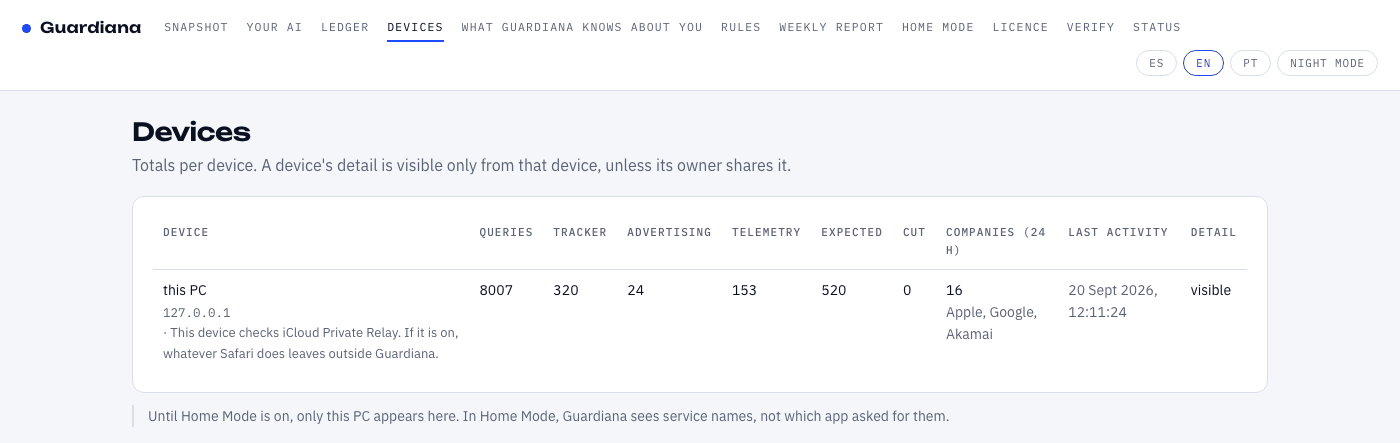
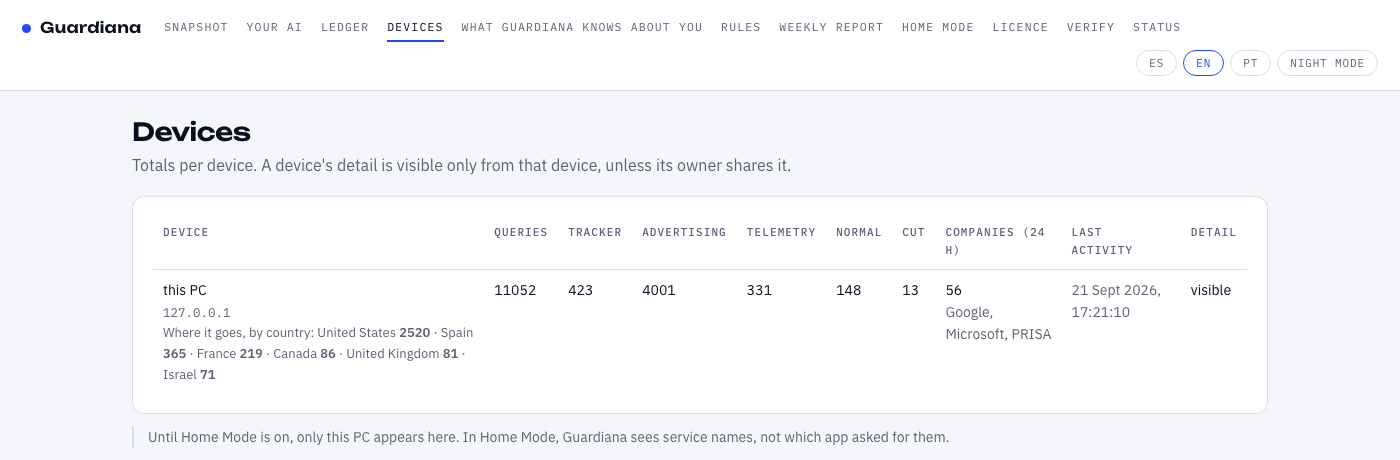
Panel screenshots retaken: the column says «normal», and the figures are real

diff --git a/es/index.html b/es/index.html
@@ -370,7 +370,7 @@ footer .links a:hover{color:var(--tinta)}
     <p>GUARDIANA puede dejar en tu escritorio un archivo que parece una copia de tus claves. Dentro no hay ninguna clave: hay una dirección de internet única, que no existe en ningún otro sitio del mundo. Si algo lee ese archivo —una IA, una extensión del navegador, una página web— y va a buscar esa dirección, la pregunta pasa por GUARDIANA. Queda anotada con la hora y, en Windows, con el nombre del programa que preguntó. GUARDIANA no ha abierto el archivo ni sabe qué hay dentro: sigue mirando solo nombres, como en todo lo demás.</p>
     <p class="ojo">Lo que esta trampa no atrapa, dicho antes de que lo preguntes: un programa que lea el archivo y se lo mande a su servidor sin preguntar por esa dirección no aparece. Es una trampa para quien sigue el enlace, no un detector de robos.</p>
   </div>
-  <figure class="pantalla"><img src="/panel-dispositivos.png" width="1400" height="485" alt="«Dispositivos», el mismo registro: cada consulta de este Mac, clasificada por lo que es. Cortadas: ninguna, porque cortar lo decides tú." loading="lazy"><figcaption>«Dispositivos», el mismo registro: cada consulta de este Mac, clasificada por lo que es. Cortadas: ninguna, porque cortar lo decides tú.</figcaption></figure>
+  <figure class="pantalla"><img src="/panel-dispositivos.png" width="1400" height="460" alt="«Dispositivos» en el PC de pruebas, el 21 de septiembre de 2026: 11.052 consultas reales de un día y medio, clasificadas por lo que son, y 13 cortadas por decisión de su dueño. Los países son a dónde fueron. Ninguna cifra está puesta a mano." loading="lazy"><figcaption>«Dispositivos» en el PC de pruebas, el 21 de septiembre de 2026: 11.052 consultas reales de un día y medio, clasificadas por lo que son, y 13 cortadas por decisión de su dueño. Los países son a dónde fueron. Ninguna cifra está puesta a mano.</figcaption></figure>
 </section>
 
 <section id="hogar">

diff --git a/pt/index.html b/pt/index.html
@@ -370,7 +370,7 @@ footer .links a:hover{color:var(--tinta)}
     <p>A GUARDIANA pode deixar na sua área de trabalho um arquivo que parece uma cópia das suas chaves. Dentro não há chave nenhuma: há um endereço de internet único, que não existe em nenhum outro lugar do mundo. Se algo ler esse arquivo — uma IA, uma extensão do navegador, uma página web — e for procurar esse endereço, a pergunta passa pela GUARDIANA. Fica anotada com a hora e, no Windows, com o nome do programa que perguntou. A GUARDIANA não abriu o arquivo nem sabe o que há dentro: continua olhando só nomes, como em tudo o mais.</p>
     <p class="ojo">O que esta armadilha não pega, dito antes de você perguntar: um programa que leia o arquivo e o mande para o seu servidor sem procurar esse endereço não aparece. É uma armadilha para quem segue o link, não um detector de roubos.</p>
   </div>
-  <figure class="pantalla"><img src="/panel-dispositivos-pt.png" width="1400" height="507" alt="«Aparelhos», o mesmo registro: cada consulta deste Mac, classificada pelo que é. Cortadas: nenhuma, porque cortar quem decide é você." loading="lazy"><figcaption>«Aparelhos», o mesmo registro: cada consulta deste Mac, classificada pelo que é. Cortadas: nenhuma, porque cortar quem decide é você.</figcaption></figure>
+  <figure class="pantalla"><img src="/panel-dispositivos-pt.png" width="1400" height="485" alt="«Aparelhos» no PC de testes, em 21 de setembro de 2026: 11.052 consultas reais de um dia e meio, classificadas pelo que são, e 13 cortadas por decisão do dono. Os países são para onde foram. Nenhum número foi digitado à mão." loading="lazy"><figcaption>«Aparelhos» no PC de testes, em 21 de setembro de 2026: 11.052 consultas reais de um dia e meio, classificadas pelo que são, e 13 cortadas por decisão do dono. Os países são para onde foram. Nenhum número foi digitado à mão.</figcaption></figure>
 </section>
 
 <section id="hogar">

diff --git a/index.html b/index.html
@@ -370,7 +370,7 @@ footer .links a:hover{color:var(--tinta)}
     <p>GUARDIANA can leave a file on your desktop that looks like a copy of your keys. There is no key inside: there is one unique internet address that exists nowhere else in the world. If anything reads that file — an AI, a browser extension, a web page — and goes looking for that address, the question passes through GUARDIANA. It is written down with the time and, on Windows, with the name of the program that asked. GUARDIANA never opened the file and does not know what is inside: it keeps looking only at names, as it does with everything else.</p>
     <p class="ojo">What this trap does not catch, said before you ask: a program that reads the file and sends it to its own server without looking up that address will not show. It is a trap for whoever follows the link, not a theft detector.</p>
   </div>
-  <figure class="pantalla"><img src="/panel-dispositivos-en.png" width="1400" height="443" alt="«Devices», the same record: every query from this Mac, sorted by what it is. Cut: none, because cutting is your decision." loading="lazy"><figcaption>«Devices», the same record: every query from this Mac, sorted by what it is. Cut: none, because cutting is your decision.</figcaption></figure>
+  <figure class="pantalla"><img src="/panel-dispositivos-en.png" width="1400" height="460" alt="«Devices» on the test PC, 21 September 2026: 11,052 real queries over a day and a half, sorted by what they are, and 13 cut by its owner. The countries are where they went. Not one figure was typed in by hand." loading="lazy"><figcaption>«Devices» on the test PC, 21 September 2026: 11,052 real queries over a day and a half, sorted by what they are, and 13 cut by its owner. The countries are where they went. Not one figure was typed in by hand.</figcaption></figure>
 </section>
 
 <section id="hogar">
